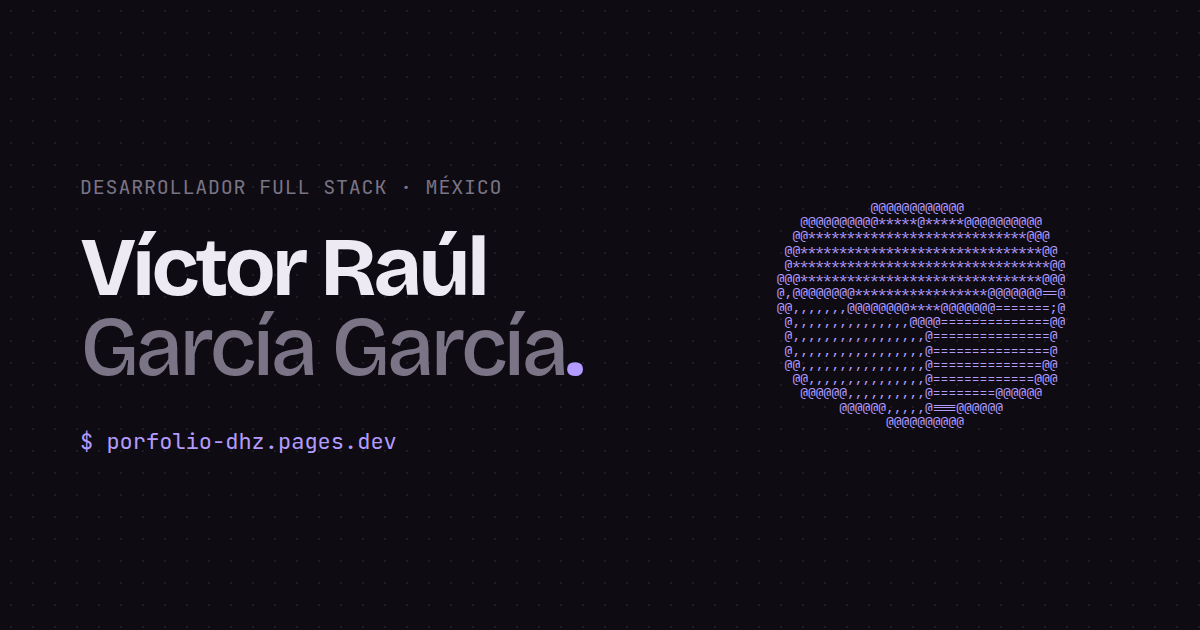
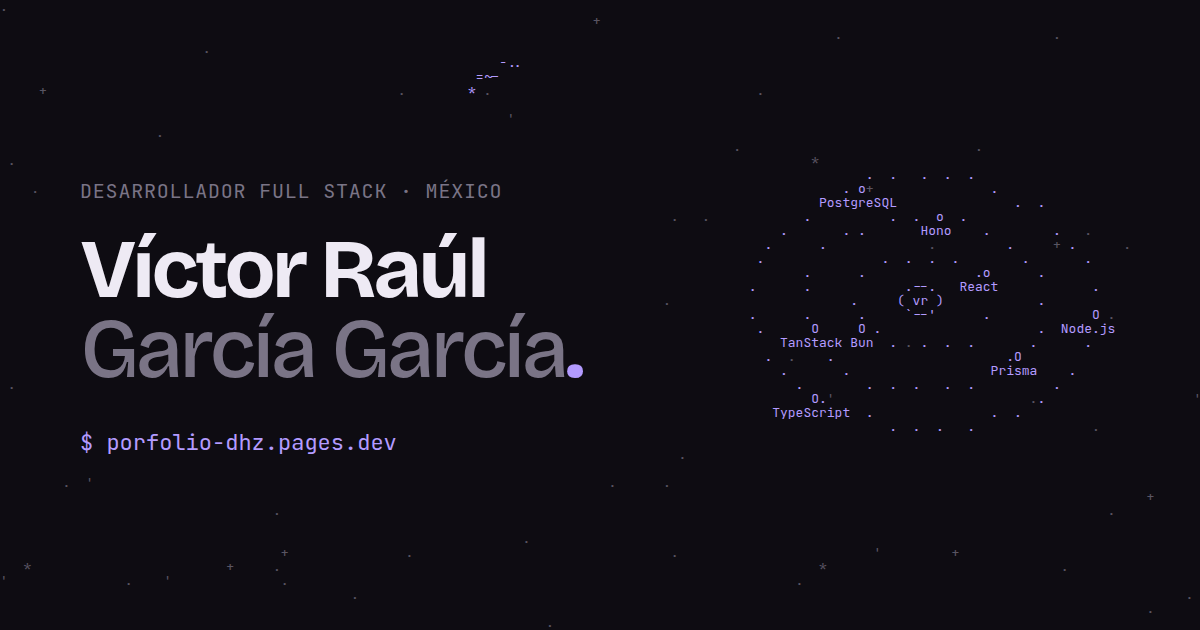
feat: reemplaza el hexágono por un cielo ASCII con el stack en órbita
El hero ahora es un cielo de estrellas que titilan con cometas ocasionales y un sistema donde orbitan las tecnologías alrededor de las iniciales. Al pasar el cursor por el sistema el tiempo se ralentiza y un clic en el cielo lanza una estrella fugaz. Las estrellas evitan el texto y los cometas pasan por detrás. Se actualizan el saludo de la consola y la imagen para redes.

diff --git a/src/scripts/ascii-space.ts b/src/scripts/ascii-space.ts
@@ -1,0 +1,140 @@
+// Cielo ASCII del hero: estrellas que titilan, cometas y un sistema donde orbita el stack.
+// Todo se dibuja en una cuadrícula de caracteres; `back` (estrellas) y `front` (sistema y
+// cometas) comparten tamaño para pintarse en dos <pre> superpuestos y alineados.
+
+export const SYSTEM_COLS = 56;
+export const SYSTEM_ROWS = 21;
+
+type Grid = { cols: number; rows: number; cells: string[] };
+
+const ORBITS = [
+  { rx: 9, ry: 3.4, speed: 0.38, labels: ['React', 'Bun'] },
+  { rx: 15.5, ry: 6.2, speed: 0.24, labels: ['Hono', 'Prisma', 'TanStack'] },
+  { rx: 22, ry: 9, speed: 0.15, labels: ['PostgreSQL', 'Node.js', 'TypeScript'] },
+];
+const CORE = [' .--. ', '( vr )', " `--' "];
+const TWINKLE = '.+*+';
+const COMET_TRAIL = '*=~--..';
+const DOT_SPACING = 3.2;
+// Espacio duro: se ve como espacio pero ocupa la celda, así ninguna estrella se cuela.
+const SOLID_SPACE = ' ';
+
+const createGrid = (cols: number, rows: number): Grid => ({ cols, rows, cells: new Array(cols * rows).fill(' ') });
+
+function put(grid: Grid, x: number, y: number, ch: string) {
+  const [col, row] = [Math.round(x), Math.round(y)];
+  if (col >= 0 && col < grid.cols && row >= 0 && row < grid.rows && ch !== ' ') grid.cells[row * grid.cols + col] = ch;
+}
+
+const write = (grid: Grid, x: number, y: number, text: string) => [...text].forEach((ch, i) => put(grid, x + i, y, ch));
+
+function isFree(grid: Grid, x: number, y: number) {
+  const [col, row] = [Math.round(x), Math.round(y)];
+  return col < 0 || col >= grid.cols || row < 0 || row >= grid.rows || grid.cells[row * grid.cols + col] === ' ';
+}
+
+const toText = (grid: Grid) =>
+  Array.from({ length: grid.rows }, (_, row) => grid.cells.slice(row * grid.cols, (row + 1) * grid.cols).join('')).join('\n');
+
+/** Dibuja el sistema con su esquina superior izquierda en (ox, oy). El plano se ve desde arriba: la mitad superior de cada órbita queda detrás del núcleo. */
+function drawSystem(grid: Grid, t: number, ox: number, oy: number) {
+  const cx = ox + SYSTEM_COLS / 2;
+  const cy = oy + Math.floor(SYSTEM_ROWS / 2) - 1;
+  const bodies: { x: number; y: number; label: string; front: boolean }[] = [];
+
+  for (const orbit of ORBITS) {
+    // Puntos a distancia visual constante (una fila mide ~2 columnas) para que el anillo se vea parejo.
+    let travelled = 0;
+    for (let a = 0; a < 2 * Math.PI; a += 0.005) {
+      travelled += 0.005 * Math.hypot(orbit.rx * Math.sin(a), 2 * orbit.ry * Math.cos(a));
+      if (travelled >= DOT_SPACING) {
+        travelled = 0;
+        put(grid, cx + orbit.rx * Math.cos(a), cy + orbit.ry * Math.sin(a), '.');
+      }
+    }
+    orbit.labels.forEach((label, i) => {
+      const a = t * orbit.speed + (i / orbit.labels.length) * 2 * Math.PI + orbit.rx;
+      bodies.push({ x: cx + orbit.rx * Math.cos(a), y: cy + orbit.ry * Math.sin(a), label, front: Math.sin(a) >= 0 });
+    });
+  }
+
+  const drawBody = ({ x, y, label, front }: (typeof bodies)[number]) => {
+    put(grid, x, y, front ? 'O' : 'o');
+    // Un espacio duro a cada lado separa la etiqueta de los puntos del anillo.
+    write(grid, Math.round(x - label.length / 2) - 1, Math.round(y) + 1, `${SOLID_SPACE}${label}${SOLID_SPACE}`);
+  };
+
+  bodies.filter((b) => !b.front).forEach(drawBody);
+  CORE.forEach((line, i) => write(grid, Math.round(cx - 3), cy - 1 + i, line.replaceAll(' ', SOLID_SPACE)));
+  bodies.filter((b) => b.front).forEach(drawBody);
+}
+
+/** El sistema solo, como texto (para la consola y la imagen para redes). */
+export const renderSystem = (t: number) => {
+  const grid = createGrid(SYSTEM_COLS, SYSTEM_ROWS);
+  drawSystem(grid, t, 0, 0);
+  return toText(grid);
+};
+
+type Star = { x: number; y: number; ch: string; phase: number | null };
+type Comet = { x: number; y: number; vx: number; vy: number; start: number };
+
+/** `blocked` marca con 1 las celdas tapadas por texto: ahí no hay estrellas y los cometas pasan por detrás. */
+export type Sky = { cols: number; rows: number; blocked: Uint8Array; stars: Star[]; comets: Comet[]; nextComet: number };
+
+export function createSky(cols: number, rows: number, blocked = new Uint8Array(cols * rows), random = Math.random): Sky {
+  const stars: Star[] = [];
+  for (let i = 0; i < cols * rows * 0.012; i++) {
+    const [x, y] = [Math.floor(random() * cols), Math.floor(random() * rows)];
+    if (blocked[y * cols + x]) continue;
+    const twinkles = random() < 0.25;
+    stars.push({
+      x,
+      y,
+      ch: random() < 0.85 ? '.' : "'",
+      phase: twinkles ? random() * 40 : null,
+    });
+  }
+  return { cols, rows, blocked, stars, comets: [], nextComet: 2 + random() * 4 };
+}
+
+/** Lanza un cometa desde (x, y) hacia abajo a la izquierda. */
+export function launchComet(sky: Sky, x: number, y: number, t: number) {
+  sky.comets.push({ x, y, vx: -26, vy: 9, start: t });
+}
+
+export type Scene = { back: string; front: string };
+
+/**
+ * Pinta el cielo en el instante `t` (segundos). `system` coloca el sistema en esa celda o lo omite.
+ * Con `animate` falso no hay cometas nuevos (movimiento reducido).
+ */
+export function renderSky(sky: Sky, t: number, system: { x: number; y: number } | null, animate = true): Scene {
+  const back = createGrid(sky.cols, sky.rows);
+  const front = createGrid(sky.cols, sky.rows);
+  if (system) drawSystem(front, t, system.x, system.y);
+
+  for (const star of sky.stars) {
+    if (!isFree(front, star.x, star.y)) continue;
+    const ch = star.phase === null ? star.ch : TWINKLE[Math.floor(t * 2 + star.phase) % TWINKLE.length];
+    put(back, star.x, star.y, ch);
+  }
+
+  if (animate && t >= sky.nextComet) {
+    launchComet(sky, sky.cols * (0.35 + Math.random() * 0.65), -1, t);
+    sky.nextComet = t + 7 + Math.random() * 7;
+  }
+
+  sky.comets = sky.comets.filter((comet) => {
+    const age = t - comet.start;
+    const [hx, hy] = [comet.x + comet.vx * age, comet.y + comet.vy * age];
+    // Cola continua, una columna por carácter; pasa por detrás del sistema y del texto.
+    [...COMET_TRAIL].forEach((ch, i) => {
+      const [x, y] = [hx + i, hy - (comet.vy / -comet.vx) * i];
+      if (isFree(front, x, y) && !sky.blocked[Math.round(y) * sky.cols + Math.round(x)]) put(front, x, y, ch);
+    });
+    return hx > -COMET_TRAIL.length * 2 && hy < sky.rows + COMET_TRAIL.length;
+  });
+
+  return { back: toText(back), front: toText(front) };
+}
